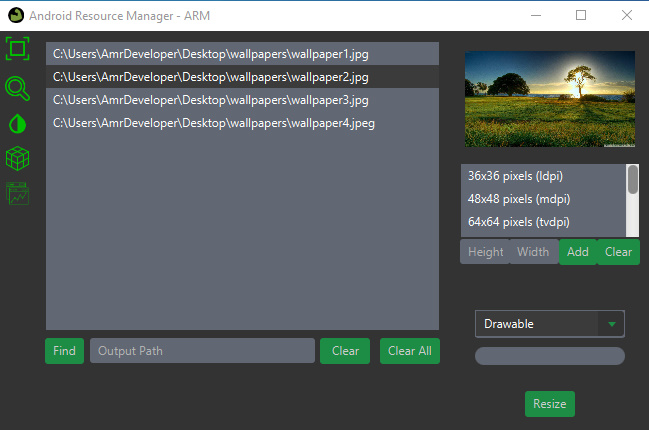
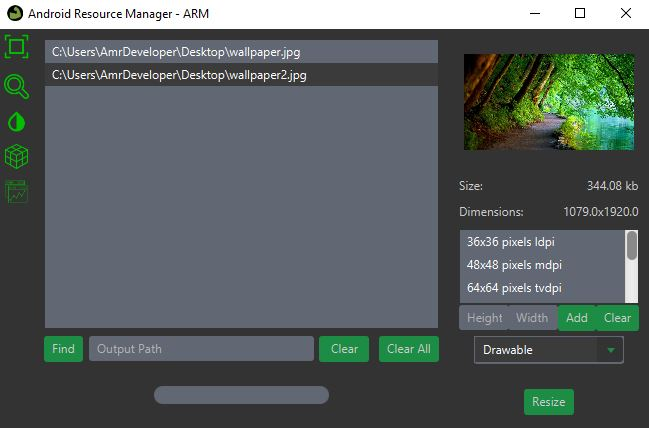
Generate new jar for v1.0.1 and update readme and screenshots

diff --git a/README.md b/README.md
@@ -2,11 +2,12 @@
 
 [![Download AndroidResourceManager](https://a.fsdn.com/con/app/sf-download-button)](https://sourceforge.net/projects/androidresourcemanager/files/latest/download)
 [![Download AndroidResourceManager](https://sourceforge.net/sflogo.php?type=14&group_id=3339638)](https://sourceforge.net/p/androidresourcemanager/)
+[![Version](https://img.shields.io/badge/Version-1.0.1-orange)](https://sourceforge.net/p/androidresourcemanager/)
 [![Min JDK Version](https://img.shields.io/badge/Required%20JDK-%2B8-brightgreen)](https://jdk.java.net/java-se-ri/8-MR3)
 [![Download AndroidResourceManager](https://img.shields.io/sourceforge/dt/androidresourcemanager.svg)](https://sourceforge.net/projects/androidresourcemanager/files/latest/download)
 [![License: MIT](https://img.shields.io/badge/License-MIT-yellow.svg)](https://opensource.org/licenses/MIT)
 
-Cross-Platform tools to manage your resources as an Android Developer, AndroidResourceManager - ARM provide five main services to you
+Lightweight Cross-Platform tools with less than 1MB size to manage your resources as an Android Developer, AndroidResourceManager - ARM provide five main services to you
 
 ### Image Resize Service
 You can easily resize your drawable, mipmap or normal images with unlimited number of sizes, the default sizes are 7 which are ldpi, mdpi, tvdpi,
